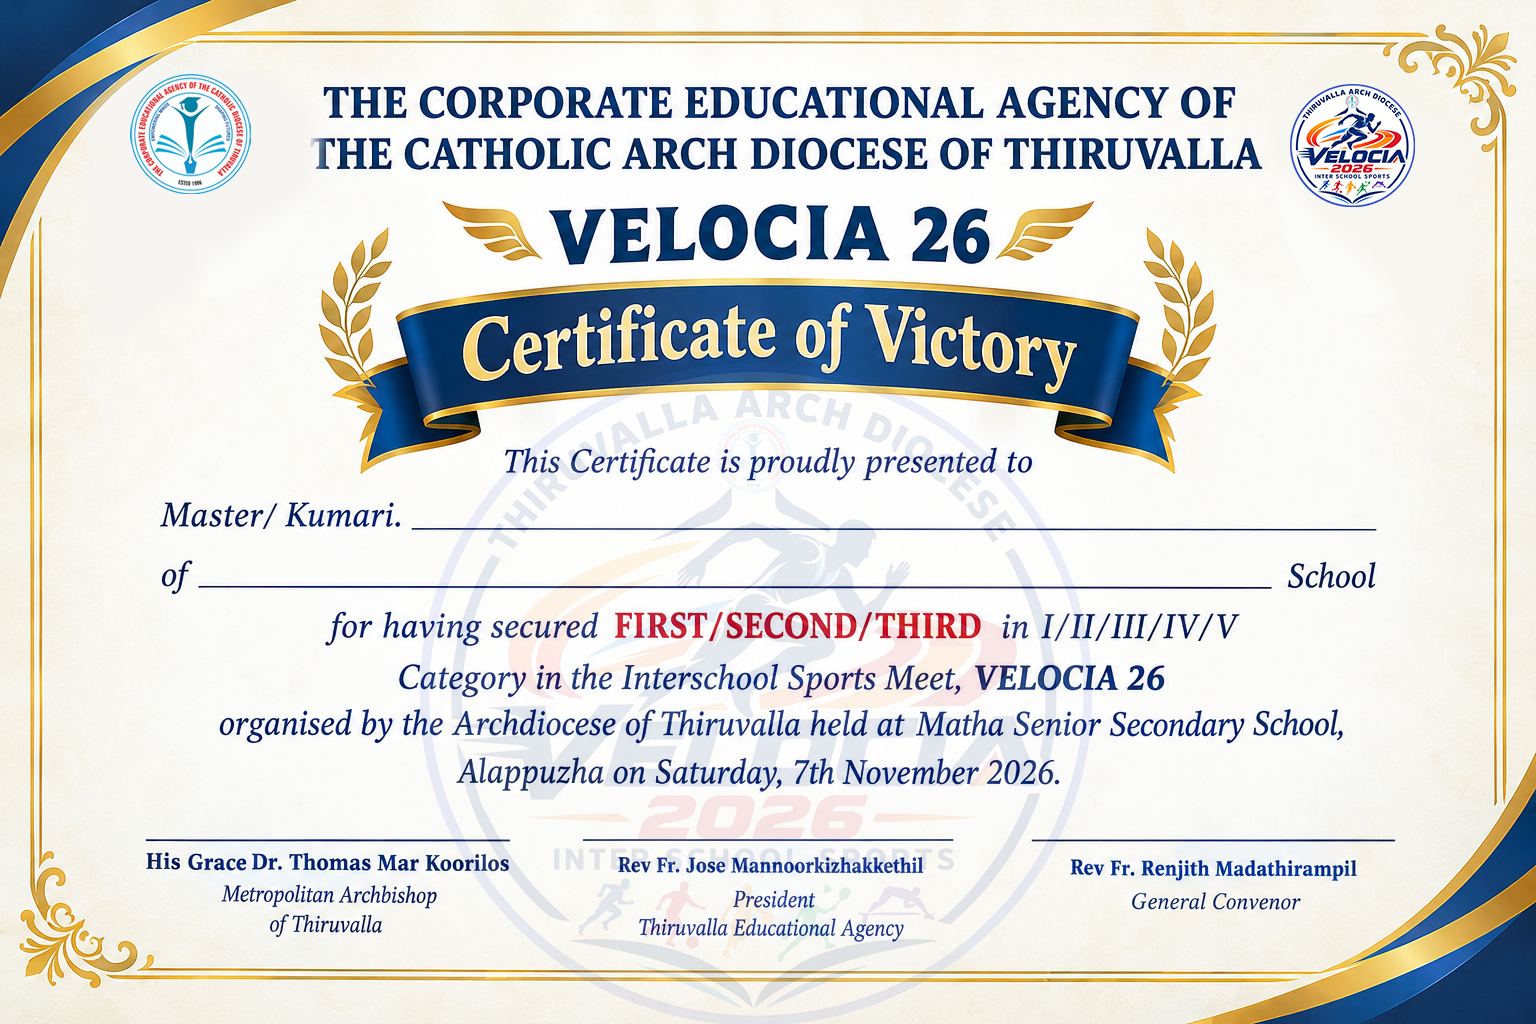
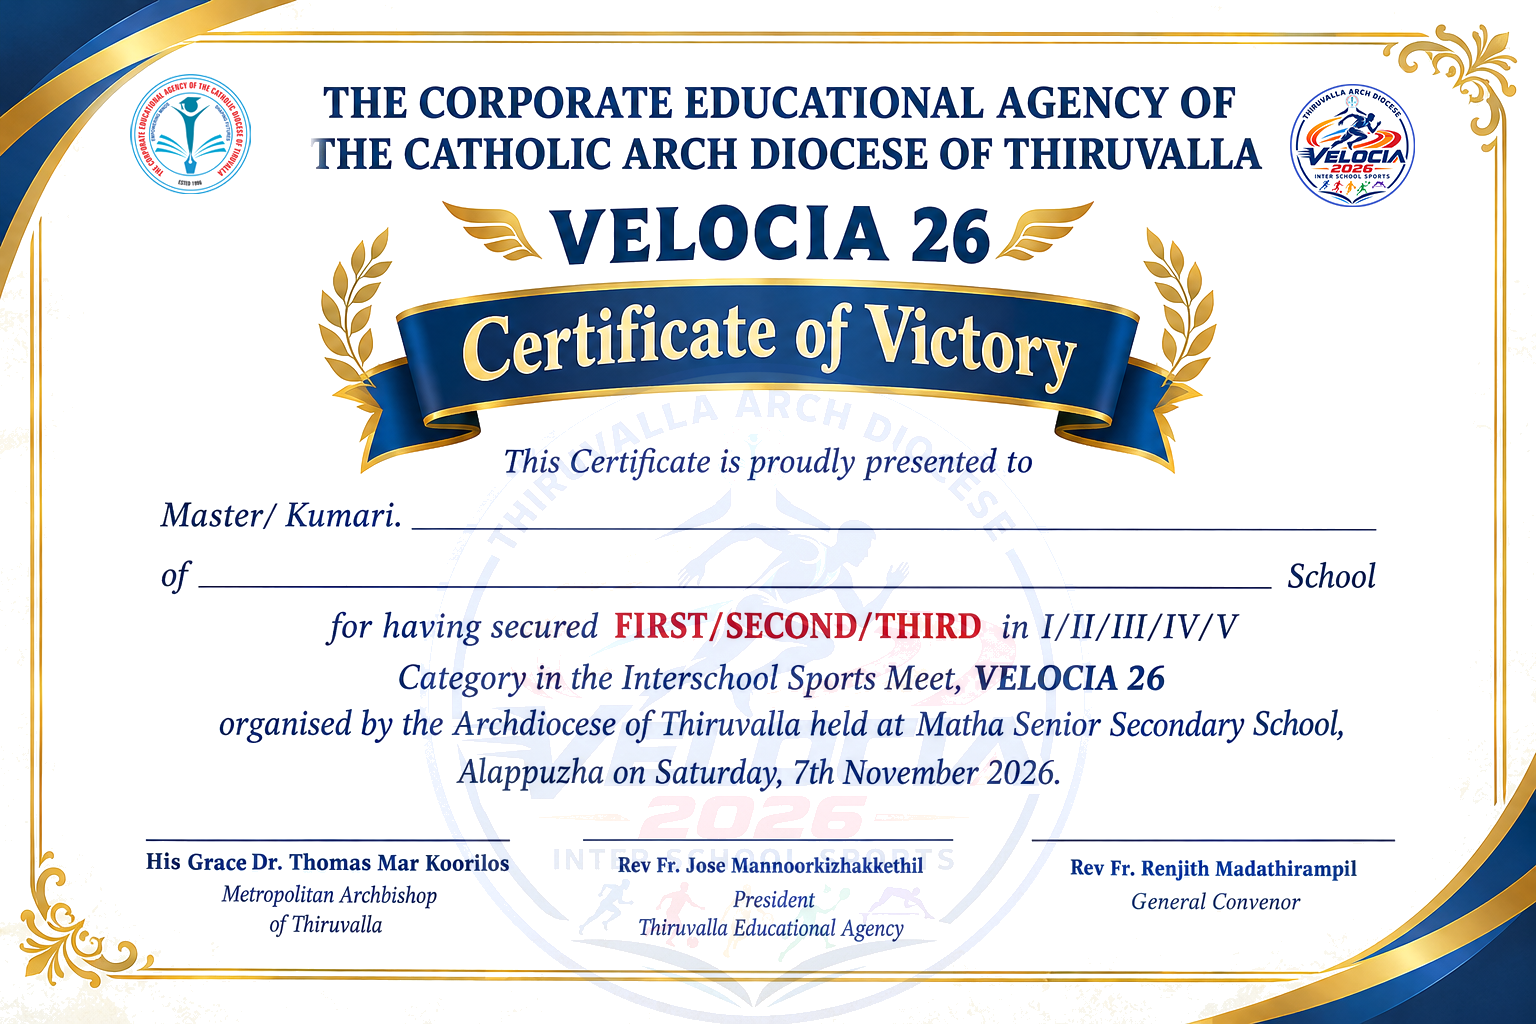
nil

diff --git a/src/app/(app)/bibs/page.tsx b/src/app/(app)/bibs/page.tsx
@@ -47,6 +47,7 @@ export default function BibsPage() {
   const { data: athletes, loading, refresh } = useLive(loadAthletes, [] as Athlete[], ["athletes"]);
   const [start, setStart] = useState<string>("");
   const [order, setOrder] = useState("school");
+  const [block, setBlock] = useState<string | null>(null);
   const [schoolFilter, setSchoolFilter] = useState("");
   const [busy, setBusy] = useState(false);
 
@@ -69,10 +70,19 @@ export default function BibsPage() {
     await Promise.all([refresh(), reload()]);
   };
 
+  // Bibs per school: blank = numbered straight through. Defaults to the last used block, or 100.
+  const blockValue = block ?? String(settings?.bib_block ?? 100);
+
   const allocate = () => {
+    if (blockValue && !/^\d+$/.test(blockValue)) return toast.error("Bibs per school must be a whole number.");
     if (athletes.some((a) => a.bib) && !confirm("This renumbers ALL athletes. Continue?")) return;
     void run(
-      () => supabase().rpc("allocate_bibs", { p_order: order, p_start: Number(start || settings?.bib_start || 1001) }),
+      () =>
+        supabase().rpc("allocate_bibs", {
+          p_order: order,
+          p_start: Number(start || settings?.bib_start || 1001),
+          p_block: order === "school" && blockValue ? Number(blockValue) : null,
+        }),
       (n) => `${n} bib numbers allocated.`,
     );
   };
@@ -143,8 +153,12 @@ export default function BibsPage() {
           </div>
         ) : (
           <>
-            <Note>Finish registrations first, then allocate. Finalize before printing bib cards so numbers can&apos;t change by mistake.</Note>
-            <div className="grid items-end gap-3 sm:grid-cols-4">
+            <Note>
+              Finish registrations first, then allocate. Schools are numbered in the order listed (A–Z), each school in one run — e.g.
+              100 per school starting at 1: first school 1–100, next school 101–200. Finalize before printing bib cards so numbers
+              can&apos;t change by mistake.
+            </Note>
+            <div className="grid items-end gap-3 sm:grid-cols-5">
               <Field label="Starting bib">
                 <input
                   type="number"
@@ -162,6 +176,18 @@ export default function BibsPage() {
                   <option value="name">Athlete name</option>
                 </select>
               </Field>
+              {order === "school" && (
+                <Field label="Bibs per school (blank = no gaps)">
+                  <input
+                    type="number"
+                    min={1}
+                    className={inputCls}
+                    value={blockValue}
+                    placeholder="no gaps"
+                    onChange={(e) => setBlock(e.target.value)}
+                  />
+                </Field>
+              )}
               <Button onClick={allocate} disabled={busy || !athletes.length}>
                 Allocate all
               </Button>

diff --git a/src/app/(app)/import/page.tsx b/src/app/(app)/import/page.tsx
@@ -262,8 +262,9 @@ export default function ImportPage() {
       if (id && id > 0) idByRow.set(r.row, id);
     }
 
-    // 2) Relay teams. The database gives each new team the next free letter in its relay.
+    // 2) Relay teams. The database letters the teams of each relay A, B, C … in school order.
     const status: Record<string, { ok: boolean; text: string }> = {};
+    const createdTeam = new Map<string, number>(); // group key → new team id
     const [teams, members] = await Promise.all([loadRelayTeams(), loadRelayMembers()]);
     const teamOf = new Map<string, string>(); // `${eventId}|${athleteId}` → existing team letter
     for (const m of members) {
@@ -306,8 +307,14 @@ export default function ImportPage() {
         status[g.key] = { ok: false, text: errorMessage(res.error) };
       } else {
         ids.forEach((id) => teamOf.set(`${g.event.id}|${id}`, team.team_label));
-        status[g.key] = { ok: true, text: `Created as team ${team.team_label}` };
+        status[g.key] = { ok: true, text: "Created" };
+        createdTeam.set(g.key, team.id);
       }
+    }
+    // Letters follow school order, so a later team can shift earlier ones — read the final letters.
+    if (createdTeam.size) {
+      const final = new Map((await loadRelayTeams()).map((t) => [t.id, t.team_label]));
+      for (const [key, id] of createdTeam) status[key] = { ok: true, text: `Created as team ${final.get(id) ?? ""}` };
     }
 
     setRows((rs) => rs.map((r) => ({ ...r, ...(updated.get(r.row) ?? {}) })));

diff --git a/src/app/(app)/relays/page.tsx b/src/app/(app)/relays/page.tsx
@@ -49,11 +49,11 @@ export default function RelaysPage() {
       return toast.error(`Choose ${RELAY_MIN} to ${RELAY_MAX} runners.`);
     setSaving(true);
     const sb = supabase();
-    // The database gives the team the next free letter in this relay.
+    // The database letters the teams of a relay A, B, C … in school order.
     const { data: team, error } = await sb
       .from("relay_teams")
       .insert({ event_id: event.id, school_id: Number(schoolId) })
-      .select("id, team_label")
+      .select("id")
       .single();
     if (error) {
       setSaving(false);
@@ -64,7 +64,8 @@ export default function RelaysPage() {
       await sb.from("relay_teams").delete().eq("id", team.id);
       toast.error(res.error);
     } else {
-      toast.ok(`Team ${team.team_label} saved with ${picked.length} runners.`);
+      const { data: saved } = await sb.from("relay_teams").select("team_label").eq("id", team.id).single();
+      toast.ok(`Team ${saved?.team_label ?? ""} saved with ${picked.length} runners.`);
       setPicked([]);
     }
     setSaving(false);

diff --git a/src/lib/types.ts b/src/lib/types.ts
@@ -20,6 +20,8 @@ export interface Settings {
   director_name: string;
   bib_start: number;
   bibs_finalized: boolean;
+  /** Bibs reserved per school (e.g. 100 → 1–100, 101–200 …); null when numbered straight through. */
+  bib_block?: number | null;
   points_first: number;
   points_second: number;
   points_third: number;

diff --git a/src/lib/certificate.ts b/src/lib/certificate.ts
@@ -34,7 +34,7 @@ function drawCertificate(doc: jsPDF, c: CertificateData, s: Settings | null) {
   const cx = W / 2;
 
   // Borders
-  doc.setFillColor(253, 251, 245);
+  doc.setFillColor(255, 255, 255);
   doc.rect(0, 0, W, H, "F");
   doc.setDrawColor(...NAVY);
   doc.setLineWidth(3);
